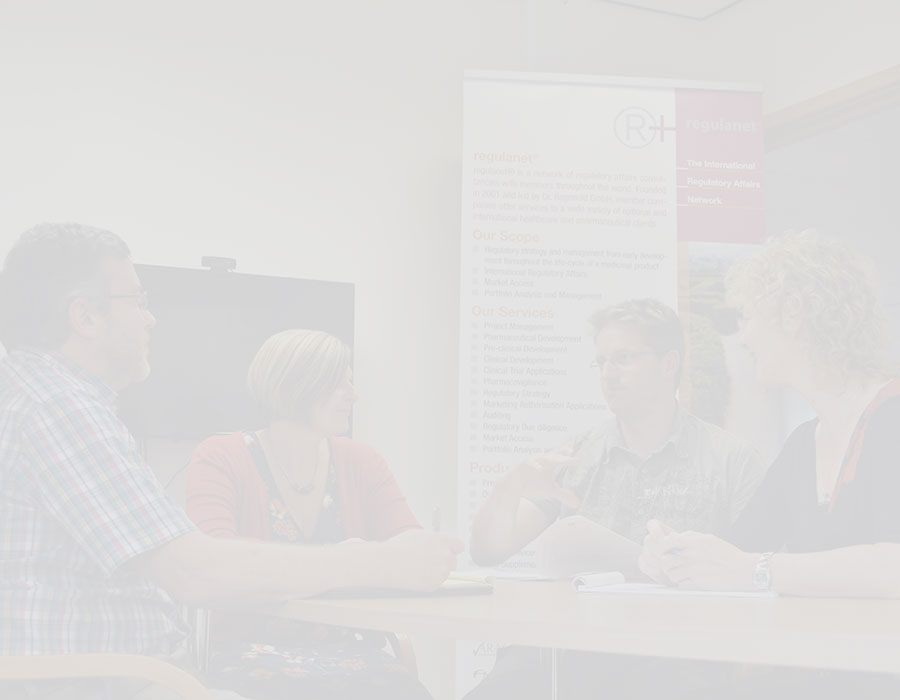
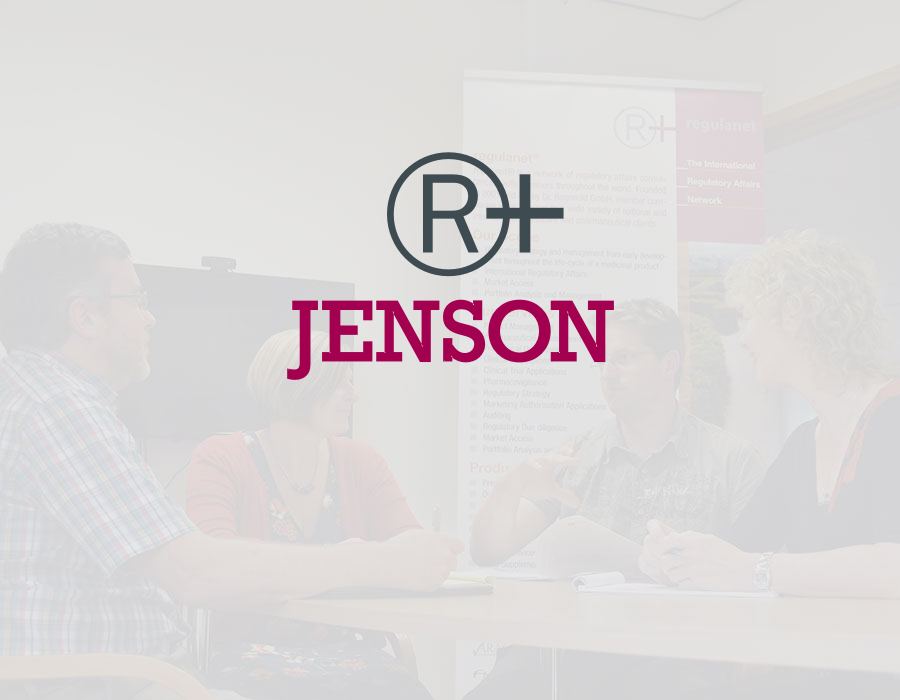
updated case study cards

Changed region(s): [[0.3111, 0.42, 0.6844, 0.54], [0.4044, 0.21, 0.6222, 0.39]]

diff --git a/source/stylesheets/_components.case-study-cards.sass b/source/stylesheets/_components.case-study-cards.sass
@@ -1,7 +1,7 @@
 .c-case-study-card
   width: 100%
   height: 350px
-  border-radius: 4px
+  border-radius: 3px
   margin-top: 30px
   position: relative
   &:hover
@@ -13,39 +13,30 @@
     background: center center no-repeat image-url("case-studies/cards/cabify.jpg")
     +at2x("/images/case-studies/cards/cabify", jpg, 450px, 350px)
     background-size: cover !important
-    .c-case-study-card__logo
-      img
-        margin-top: 108px
   &.gnarbox
     background: center center no-repeat image-url("case-studies/cards/gnarbox.jpg")
     +at2x("/images/case-studies/cards/gnarbox", jpg, 450px, 350px)
     background-size: cover !important
-    .c-case-study-card__logo
-      img
-        margin-top: 116px
+  &.accent
+    background: center center no-repeat image-url("case-studies/cards/accent.png")
+    +at2x("/images/case-studies/cards/accent", png, 450px, 350px)
+    background-size: cover !important
+  &.kinex
+    background: center center no-repeat image-url("case-studies/cards/kinex.jpg")
+    +at2x("/images/case-studies/cards/kinex", jpg, 450px, 350px)
+    background-size: cover !important
   &.jensonr
     background: center center no-repeat image-url("case-studies/cards/jensonr.jpg")
     +at2x("/images/case-studies/cards/jensonr", jpg, 450px, 350px)
     background-size: cover !important
-    .c-case-study-card__logo
-      img
-        margin-top: 76px
   &.maria-toledo
     background: center center no-repeat image-url("case-studies/cards/maria-toledo.jpg")
     +at2x("/images/case-studies/cards/maria-toledo", jpg, 450px, 350px)
     background-size: cover !important
-  &.sketchtricks
-    background-color: #202C3A
-    .c-case-study-card__logo
-      img
-        margin-top: 71px
-  &.sketchtohtml
-    background: center center no-repeat image-url("case-studies/cards/sketchtohtml.jpg")
-    +at2x("/images/case-studies/cards/sketchtohtml", jpg, 450px, 350px)
+  &.gridnorth-logo
+    background: center center no-repeat image-url("case-studies/cards/gridnorth-logo.png")
+    +at2x("/images/case-studies/cards/gridnorth-logo", png, 450px, 350px)
     background-size: cover !important
-    .c-case-study-card__logo
-      img
-        margin-top: 37px
 
   .c-case-study-card__link
     position: absolute
@@ -54,9 +45,6 @@
     top: 0
     left: 0
     z-index: 10
-
-  .c-case-study-card__logo
-    text-align: center
 
   .c-case-study-card__details
     width: 100%
@@ -76,24 +64,12 @@
       +max-width(480px)
         margin-top: 2px
       span
-        font-weight: 900
+        font-weight: 700
     img
       float: right
       border-radius: 50%
       +min-width(481px)
         margin-top: 2px
-
-  .c-case-study-card__sold
-    font-size: 14px
-    font-weight: 700
-    color: $case-study-card-sold-text
-    text-transform: uppercase
-    background-color: $case-study-card-sold-bg
-    padding: 4px 8px
-    border-radius: 2px
-    position: absolute
-    top: 20px
-    right: 20px
 
 /**
  * Remove first row margin

diff --git a/source/stylesheets/_settings.colors.sass b/source/stylesheets/_settings.colors.sass
@@ -8,6 +8,7 @@ $paragraph: #383E47
 $list: #383E47
 $small: #6F7685
 $small-link: #6F7685
+$strong: #121821
 
 /**
  * Components
@@ -17,12 +18,8 @@ $header-bg: #121821
 $header-nav-link: #888F9E
 $header-nav-link-hover: #FFF
 $header-nav-link-selected: #FFF
-$header-menu-btn-text: #FFF
-$header-menu-btn-border: #FFF
 
 $footer-bg: #FFF
-$footer-cta-h1: #FFF
-$footer-copyright-small: #A2A9B8
 
 $btn-text: #FFF
 $btn-bg: #1E88E5
@@ -40,27 +37,14 @@ $testimonial-author-text: #121821
 $case-study-card-details-text: #121821
 $case-study-card-details-text-hover: #1E88E5
 $case-study-card-details-bg: rgba(255, 255, 255, 0.9)
-$case-study-card-sold-text: #FFF
-$case-study-card-sold-bg: #E4A416
 
 $form-input-placeholder: #888F9E
 $form-input-border: #888F9E
 $form-input-bg: #FFF
 $form-btn-text: #FFF
 $form-btn-bg: #44A748
-$form-btn-bg-hover: #379A3B
-$form-btn-bg-active: #2B8E2F
+$form-btn-bg-hover: darken($form-btn-bg, 4%)
+$form-btn-bg-active: darken($form-btn-bg, 8%)
 
-$intro-h1: #FFF
-$intro-h2: #FFF
-$intro-p: rgba(255, 255, 255, 0.7)
 $intro-bg: #121821
-$intro-light-h2: #131922
-$intro-light-p: #888F9E
-$intro-light-bg: #F7F7F8
-
-/**
- * Utilities
- */
-
-$text-light: #888F9E
+$intro-h1: #FFF

diff --git a/source/stylesheets/_components.intro.sass b/source/stylesheets/_components.intro.sass
@@ -1,21 +1,10 @@
 .c-intro
-  background-color: $intro-bg
-  padding: 70px 0 80px
+  background: $intro-bg bottom center no-repeat image-url("intro-bg.jpg")
+  background-size: cover
+  padding: 120px 0 80px
   margin: 0 0 70px
   +min-width(481px)
     padding: 200px 0 100px
     margin: 0 0 100px
   h1
     color: $intro-h1
-  h2
-    color: $intro-h2
-  p
-    color: $intro-p
-  &.light
-    h2
-      color: $intro-light-h2
-    p
-      color: $intro-light-p
-  &.home
-    background: $intro-bg bottom center no-repeat image-url("intro-bg.jpg")
-    background-size: cover

diff --git a/source/stylesheets/_components.header.sass b/source/stylesheets/_components.header.sass
@@ -3,12 +3,14 @@
   -ms-overflow-style: -ms-autohiding-scrollbar
   width: 100%
   height: 70px
-  background-color: $header-bg
+  background: $header-bg
   overflow-x: auto
   white-space: nowrap
   position: fixed
   top: 0
-  z-index: 30
+  z-index: 20
+  +max-width(520px)
+    background: linear-gradient(to right, #000 0%, #1a1a1a 100%)
 
   .c-header__logo
     margin: 15px 60px 0 0

diff --git a/source/stylesheets/_components.footer.sass b/source/stylesheets/_components.footer.sass
@@ -4,8 +4,8 @@
   text-align: center
 
   .c-footer__copyright
-    margin: 100px 0 50px
+    margin: 70px 0 50px
     +min-width(481px)
-      margin-top: 200px
+      margin-top: 150px
     +min-width(768px)
       margin-top: 310px

diff --git a/source/stylesheets/_elements.page.sass b/source/stylesheets/_elements.page.sass
@@ -1,10 +1,4 @@
-html
-  height: 100%
-
 body
   text-rendering: optimizeLegibility
   -webkit-text-size-adjust: none
-  min-height: 100%
-  padding-top: 60px
-  +min-width(768px)
-    padding-top: 70px
+  padding-top: 70px

diff --git a/source/stylesheets/main.sass b/source/stylesheets/main.sass
@@ -19,6 +19,7 @@
 @import "elements.small"
 @import "elements.paragraphs"
 @import "elements.lists"
+@import "elements.strong"
 
 @import "components.header"
 @import "components.footer"

diff --git a/source/stylesheets/_utilities.text.sass b/source/stylesheets/_utilities.text.sass
@@ -1,5 +1,2 @@
 .u-text--center
   text-align: center !important
-
-.u-text--light
-  color: $text-light !important

diff --git a/source/stylesheets/_elements.strong.sass b/source/stylesheets/_elements.strong.sass
@@ -1,0 +1,4 @@
+strong
+  font-weight: 700
+  font-style: italic
+  color: $strong
